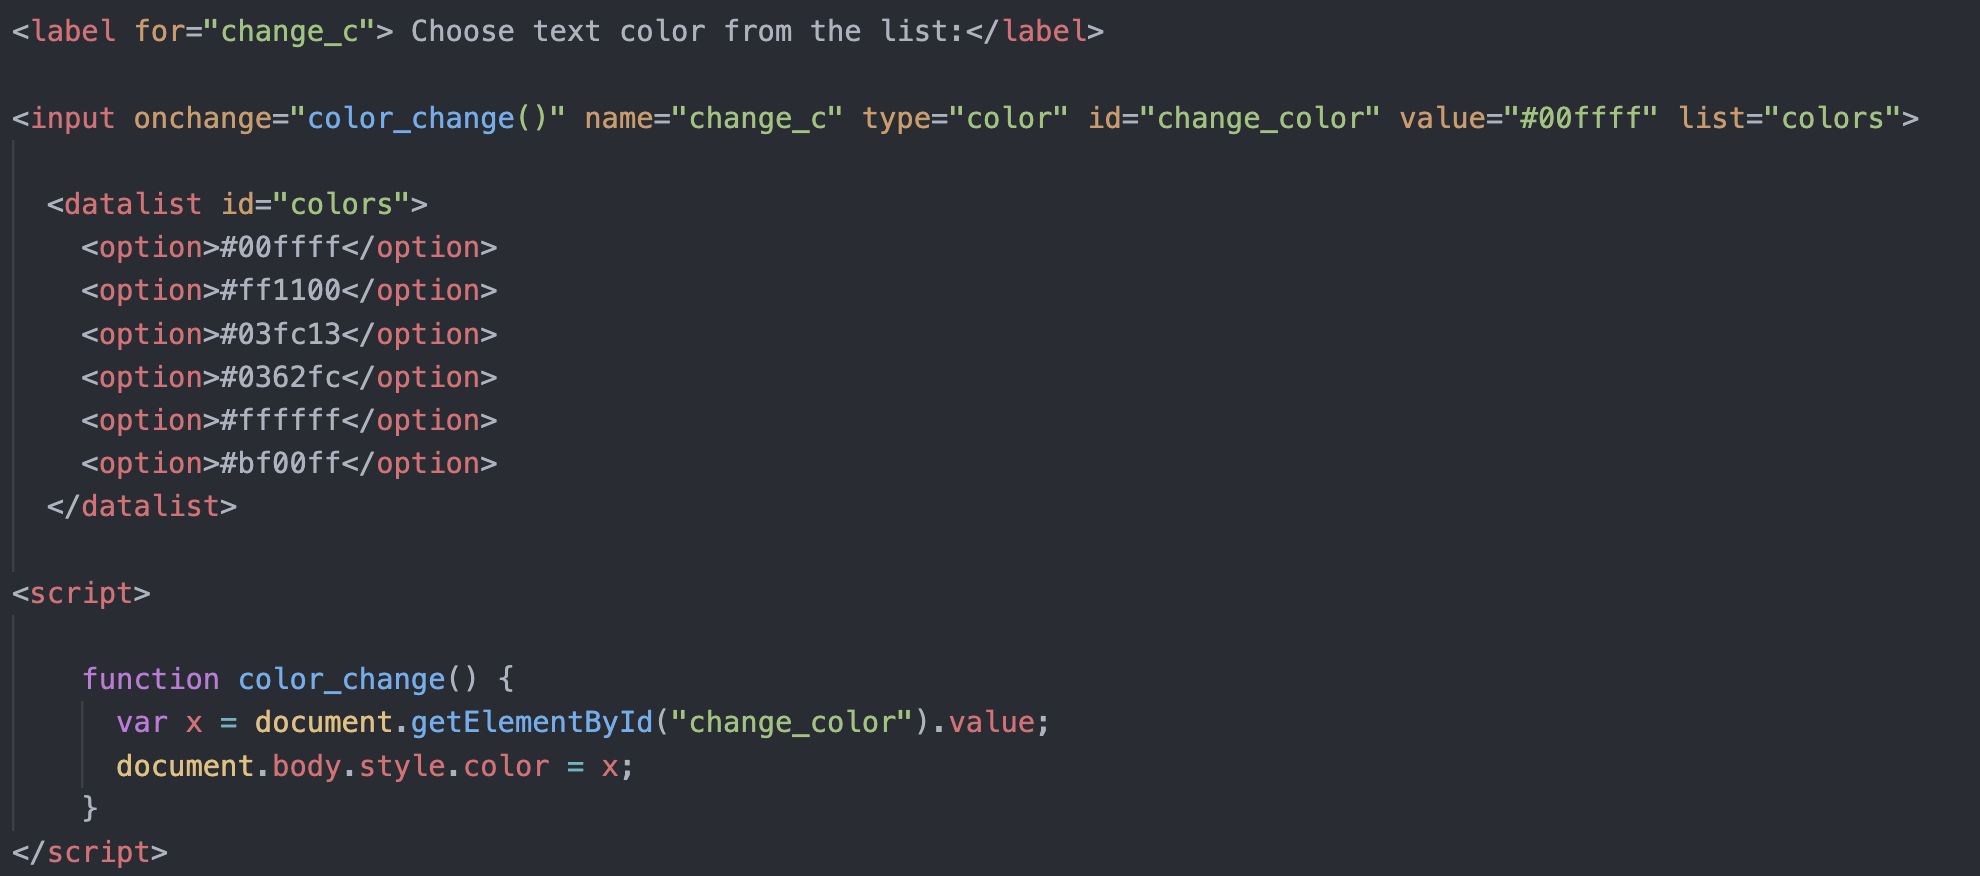
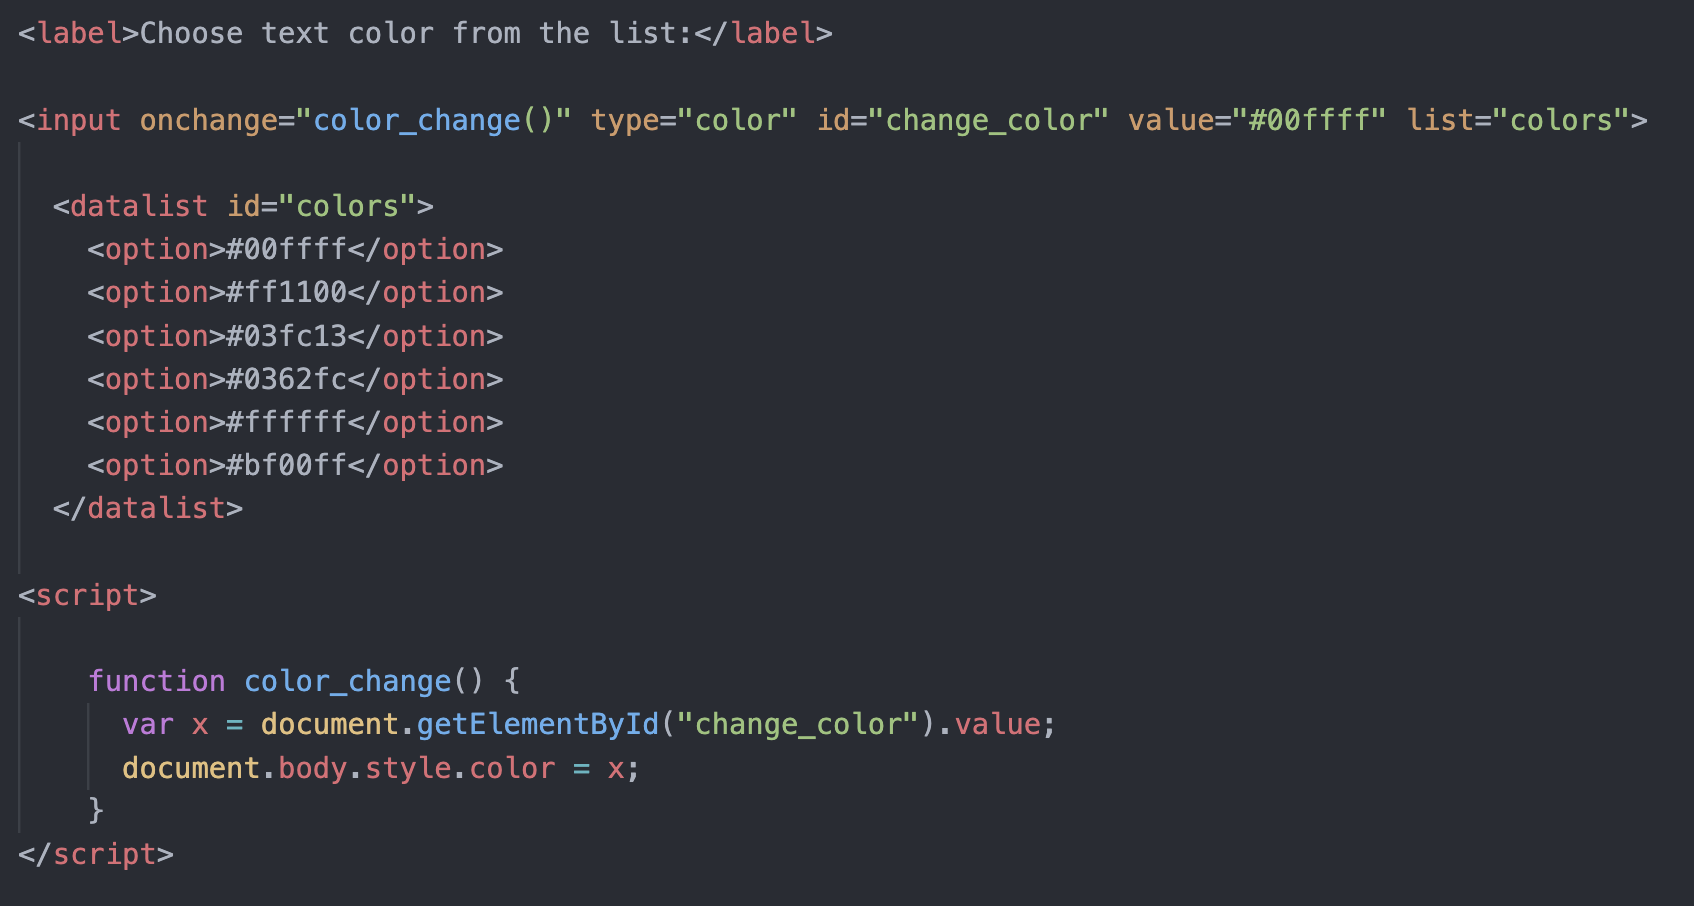
updating pic

diff --git a/questions/data_list.html b/questions/data_list.html
@@ -54,9 +54,9 @@ list attribute (this binds them together).
 </pre>
 
 
-<label for="change_c"> Choose text color from the list:</label>
+<label>Choose text color from the list:</label>
 
-<input onchange="color_change()" name="change_c" type="color" id="change_color" value="#00ffff" list="colors">
+<input onchange="color_change()" type="color" id="change_color" value="#00ffff" list="colors">
             
   <datalist id="colors">
     <option>#00ffff</option>
@@ -74,6 +74,7 @@ list attribute (this binds them together).
       document.body.style.color = x;
     }
 </script>
+
 <br>
 <br>
 <img src="https://raw.githubusercontent.com/JamethielR/class_website/main/questions/DataListCode.png" alt="code">
